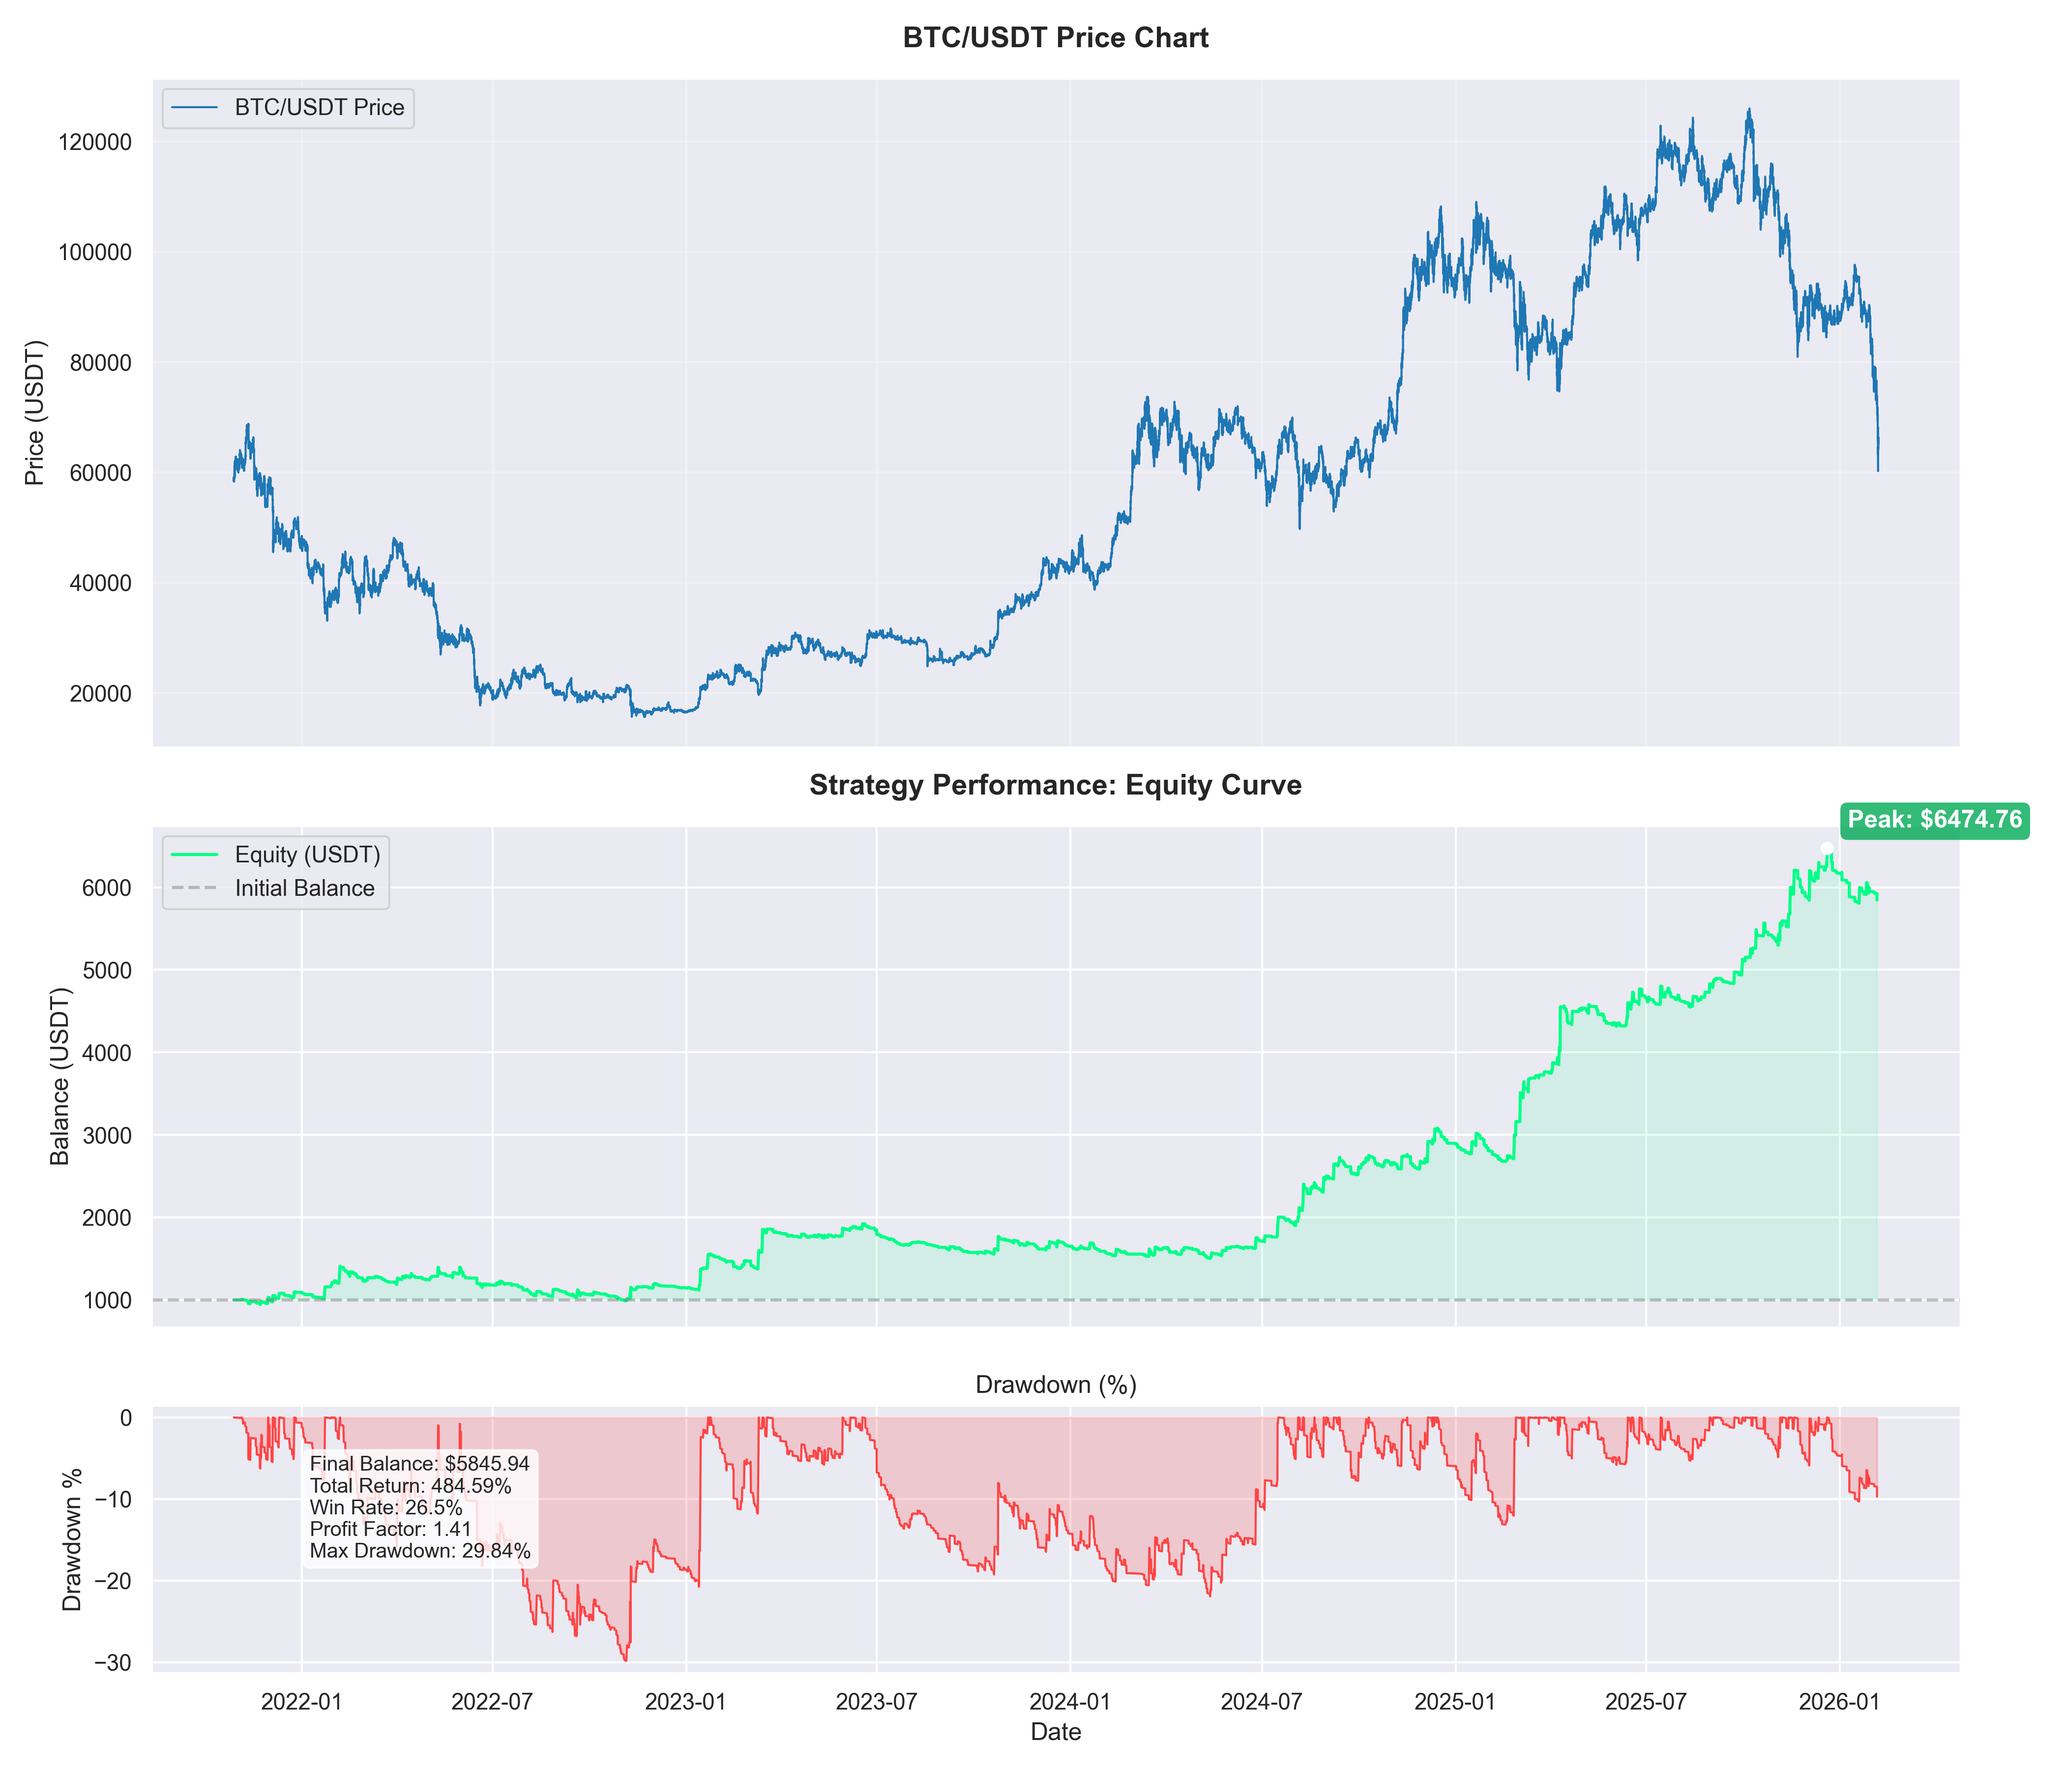
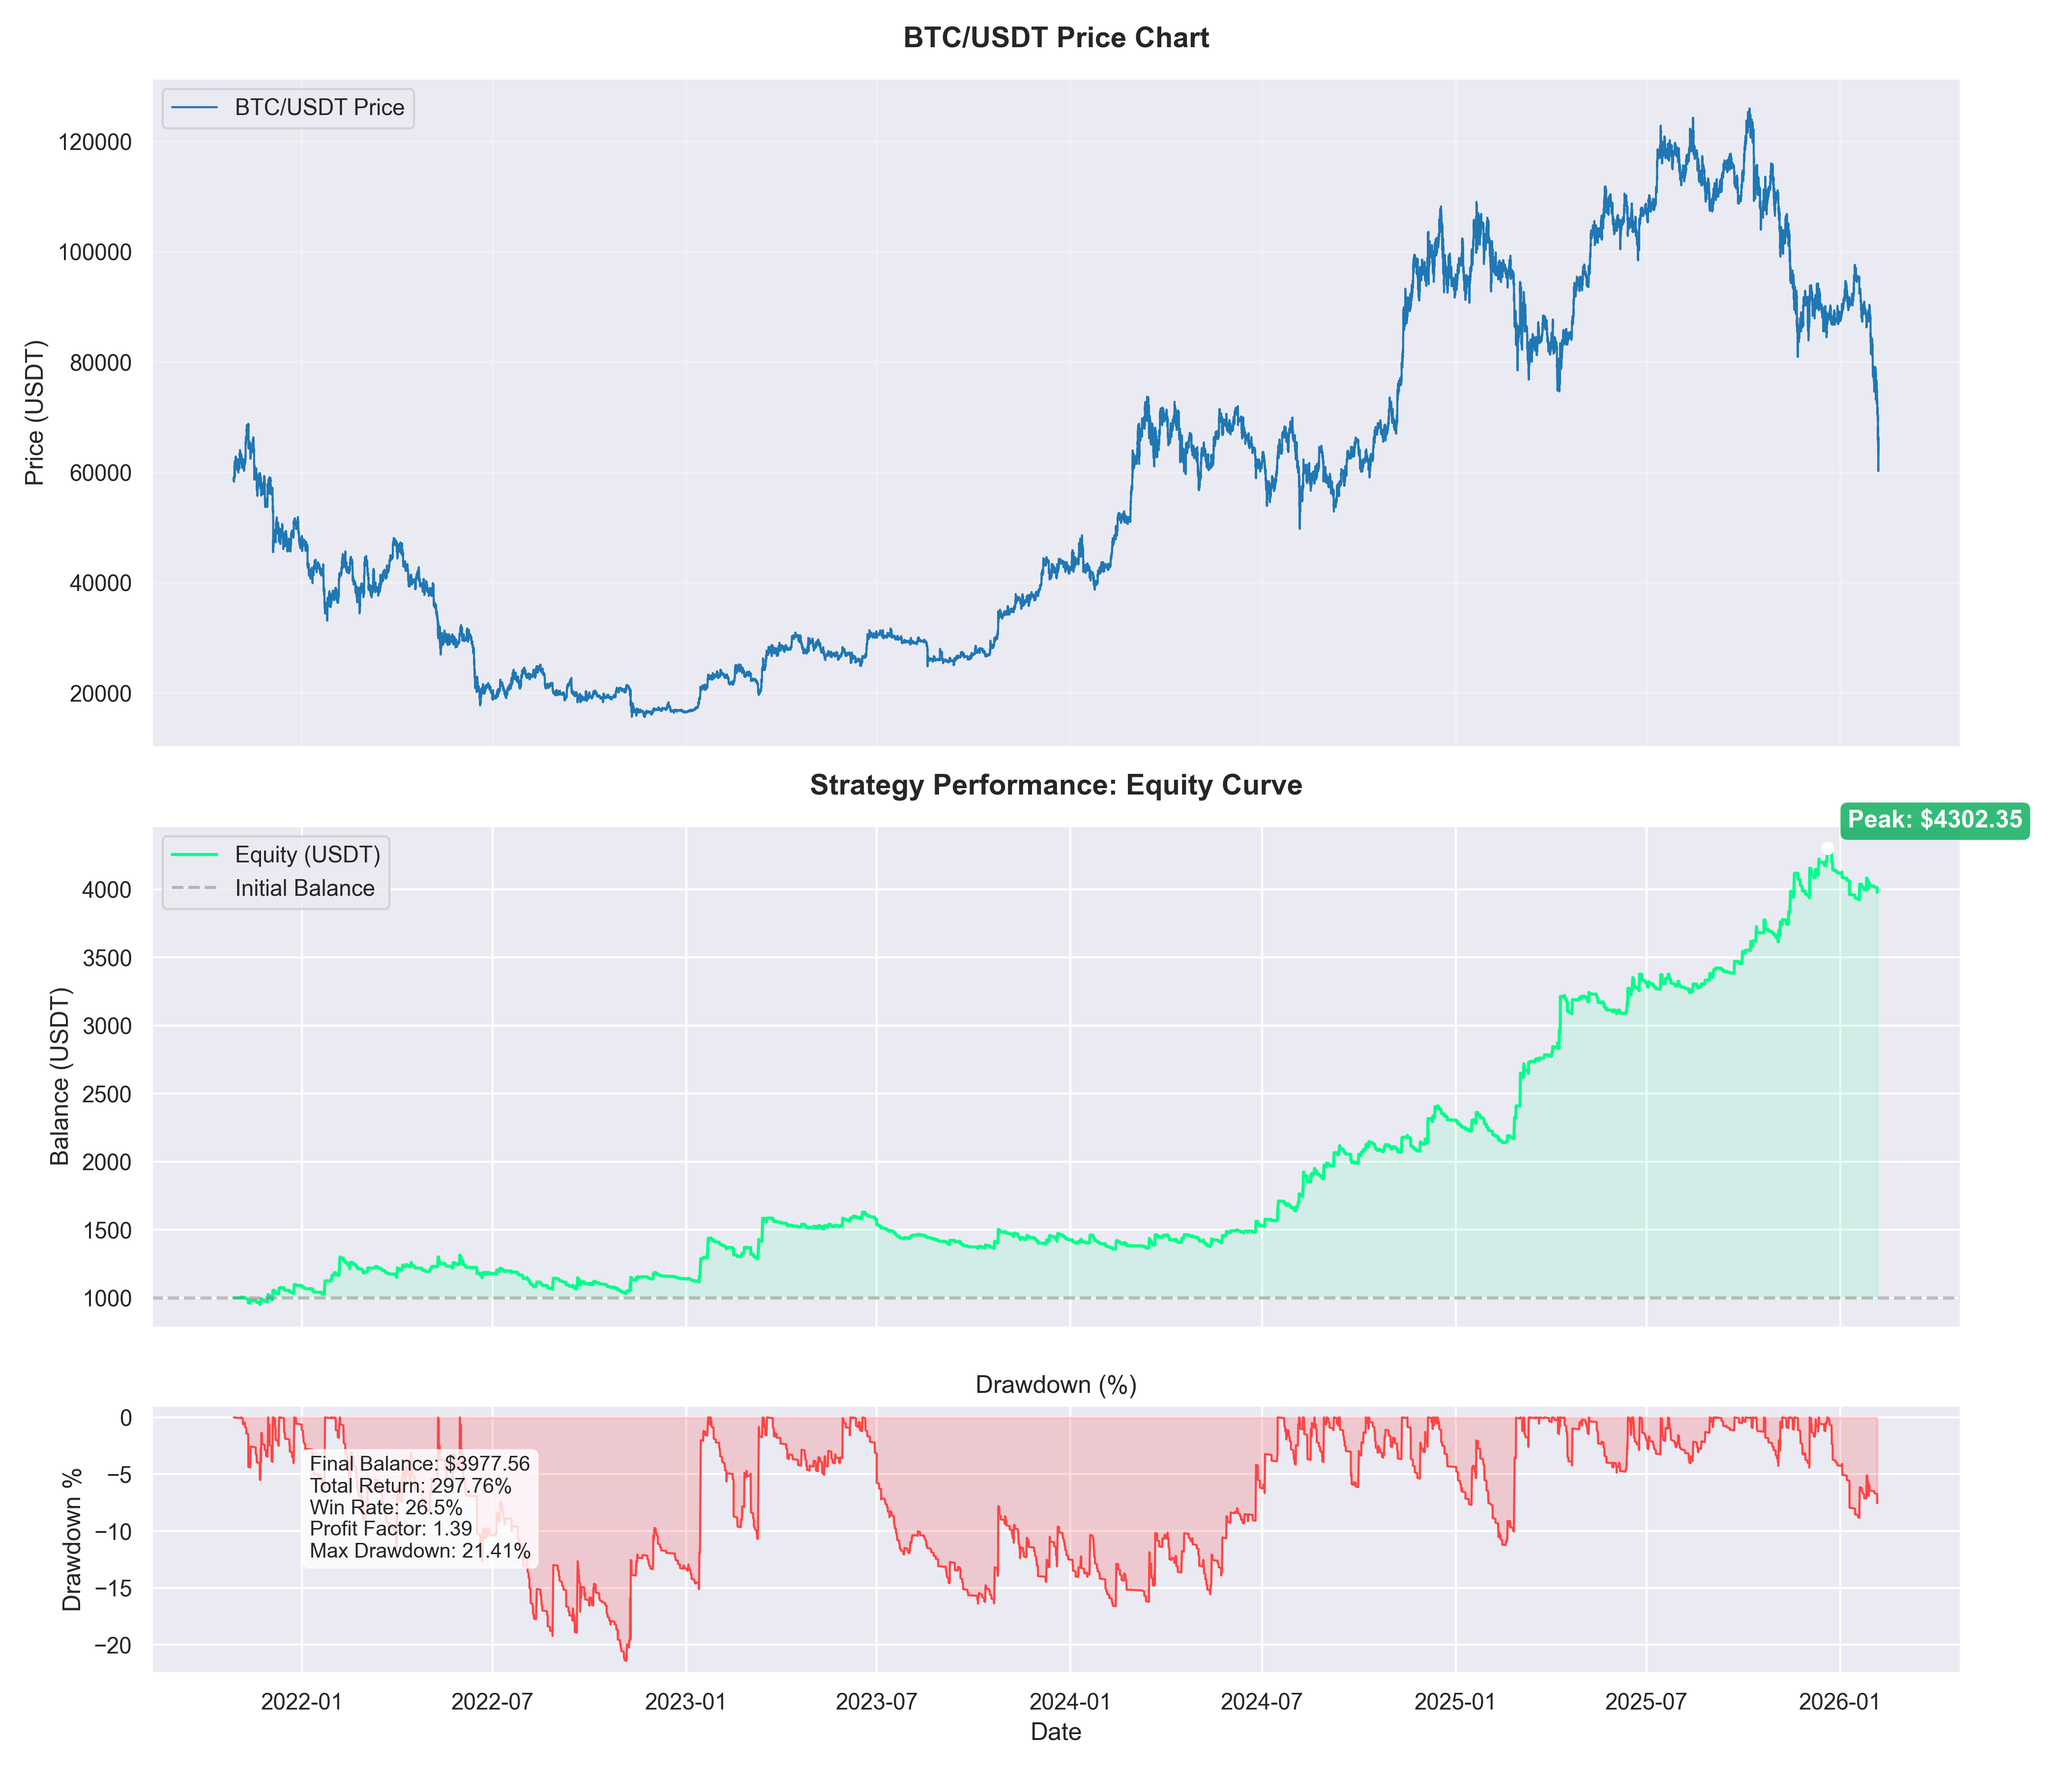
feat: Update leverage and position sizing in config and add a performance summary image.

diff --git a/config.py b/config.py
@@ -30,8 +30,8 @@ class TradingConfig:
     EMA_LENGTH: int = 102
     
     # Risk Management
-    LEVERAGE: int = 10
-    POSITION_SIZE_PERCENT: float = 0.2
+    LEVERAGE: int = 9
+    POSITION_SIZE_PERCENT: float = 0.15
     
     # Safety
     MAX_TRADES_PER_HOUR: int = 5
